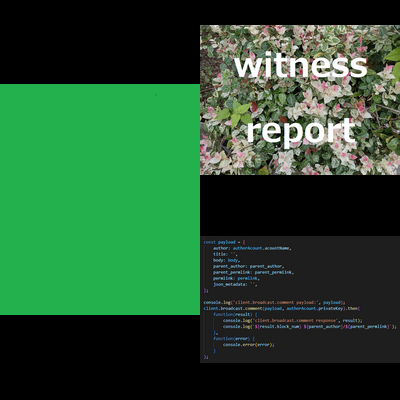
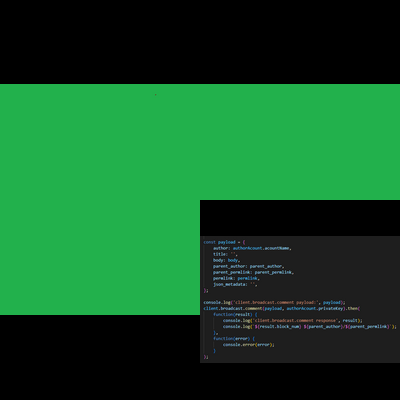
m

Changed region(s): [[0.48, 0.06, 1.0, 0.51]]

diff --git a/sharp3/app.js b/sharp3/app.js
@@ -68,8 +68,8 @@ for (let index = 0; index < urls.length; index++) {
 
 let payload = []
 for (let index = 0; index < urls.length; index++) {
-    let left = parseInt(Math.sqrt(n - 1) + 0) * image_width;
-    let top = parseInt((n - 1) / x + 0) * image_height;
+    let left = parseInt(Math.sqrt(index - 1 + 1) + 1) * image_width;
+    let top = parseInt((index - 1 + 1) / x + 1) * image_height;
     a = {input: `./${index + 1}.png`, top: top, left: left};
     payload.push(a);
 }
